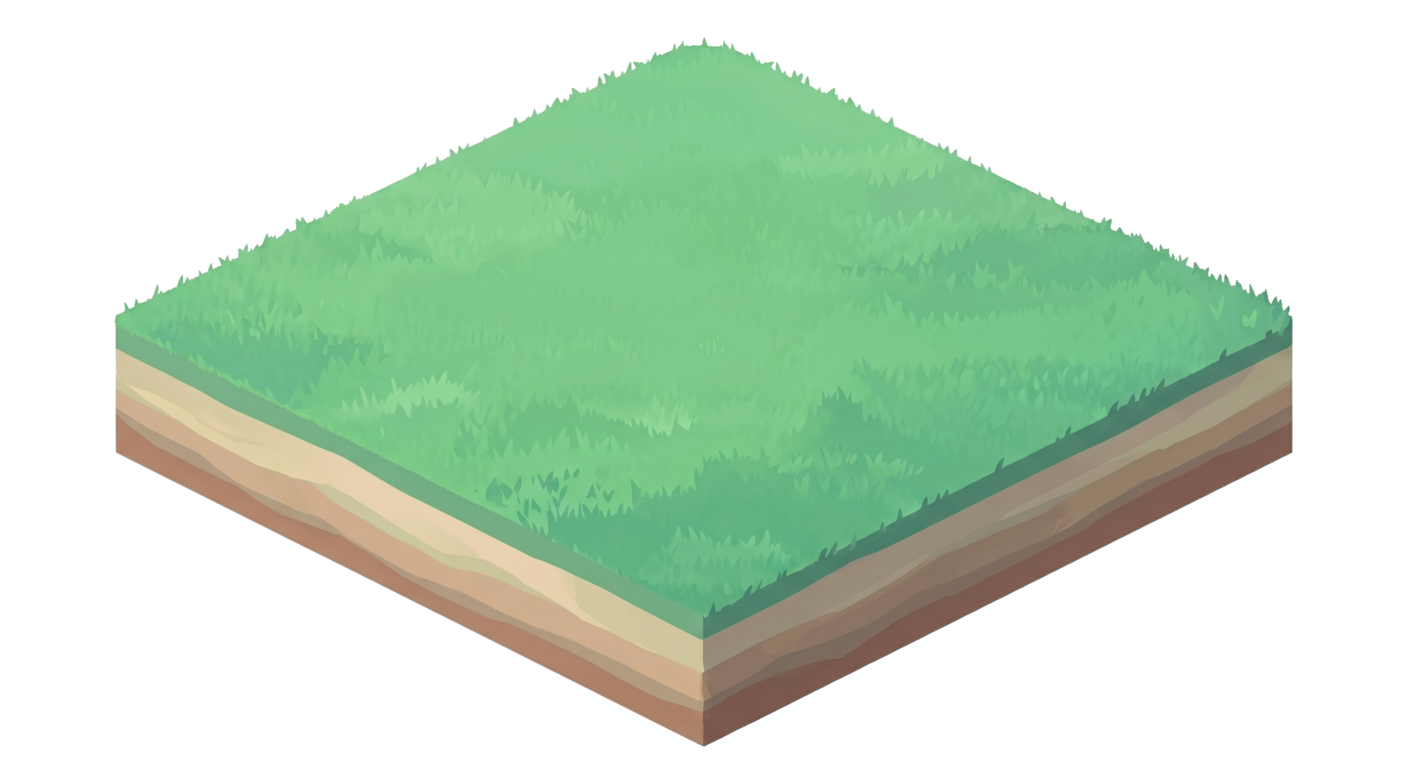
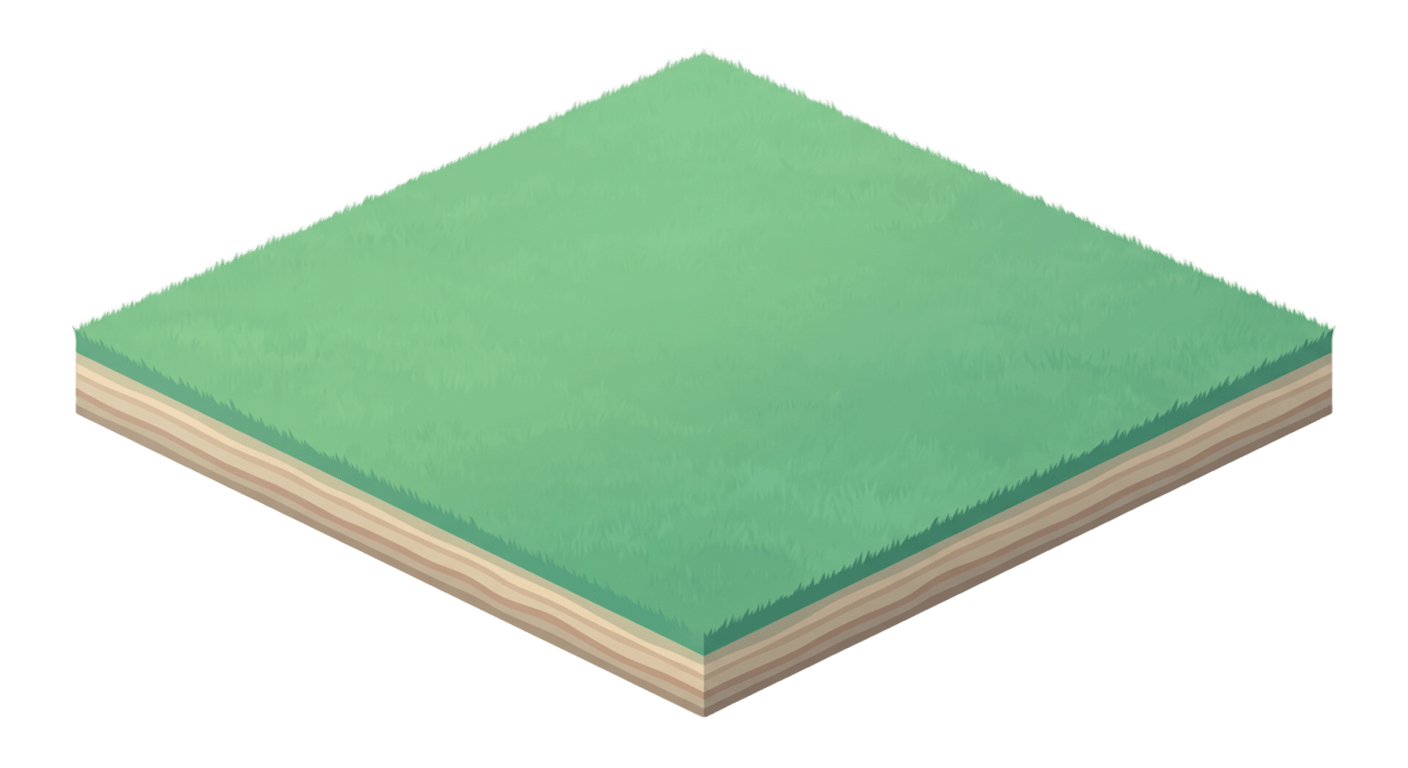
feat: fix the tiles so they don't look overlapping

diff --git a/src/components/game/PixiCanvas.tsx b/src/components/game/PixiCanvas.tsx
@@ -95,6 +95,7 @@ export default function PixiCanvas() {
 
             const assetPromises: Promise<any>[] = [
                 PIXI.Assets.load('/assets/land.png').catch(() => null),
+                PIXI.Assets.load('/assets/grass.png').catch(() => null),
                 PIXI.Assets.load(rabbitSrc).catch(() => null),
                 ...airAnimalSrcs.map(src => PIXI.Assets.load(src).catch(() => null))
             ];
@@ -114,7 +115,7 @@ export default function PixiCanvas() {
                 if (tex) loadedTreeTextures[type] = tex;
             });
 
-            const [bgTexture, rabbitTexture, ...airAnimalTextures] = await Promise.all(assetPromises);
+            const [bgTexture, grassTexture, rabbitTexture, ...airAnimalTextures] = await Promise.all(assetPromises);
             await Promise.all([...healthyPromises, ...dryPromises]);
 
             // Map textures to names
@@ -125,32 +126,67 @@ export default function PixiCanvas() {
 
             if (isDestroyed) return;
 
+            const landLayer = new PIXI.Container();
+            const grassLayer = new PIXI.Container();
+            const treeLayer = new PIXI.Container();
+            treeLayer.sortableChildren = true;
+
             const mainContainer = new PIXI.Container();
+            mainContainer.addChild(landLayer);
+            mainContainer.addChild(grassLayer);
+            mainContainer.addChild(treeLayer);
             app.stage.addChild(mainContainer);
 
-            const gapX = 480;
-            const gapY = 240;
+            // --- 1. GAMBAR TANAH UTAMA (Hanya 1 pulau di tengah) ---
+            if (bgTexture) {
+                const island = new PIXI.Sprite(bgTexture);
+                island.anchor.set(0.5);
+                island.x = 0;
+                island.y = 0;
+                landLayer.addChild(island);
+            }
 
-            const sortedGrid = [...forestGrid].sort((a, b) => (a.grid_x + a.grid_y) - (b.grid_x + b.grid_y));
+            // --- 1.5 GAMBAR RUMPUT DI ATAS TANAH (Rumput berayun) ---
+            if (grassTexture) {
+                const grass = new PIXI.Sprite(grassTexture);
+                grass.anchor.set(0.5);
+                grass.x = 0;
+                grass.y = 0;
+                grassLayer.addChild(grass);
+
+                // Animasi rumput berayun ditiup angin lembut (mengikuti gaya ayunan tanaman)
+                let elapsedGrass = Math.random() * 10;
+                app.ticker.add((ticker) => {
+                    elapsedGrass += ticker.deltaTime * 0.02;
+                    grass.skew.x = Math.sin(elapsedGrass * 2) * 0.035; // Amplitudo diperbesar agar terlihat jelas
+                });
+            }
+
+            // Pemetaan posisi pohon di atas pulau tunggal (0,0) agar menyebar secara rapi ke sudut-sudut pulau
+            const getTreeOffset = (gridX: number, gridY: number) => {
+                if (gridX === 0 && gridY === 0) return { x: 0, y: -10 };       // Tengah (Level 1)
+                if (gridX === 1 && gridY === 0) return { x: 220, y: 70 };     // Depan-Kanan (Level 2)
+                if (gridX === 0 && gridY === 1) return { x: -220, y: 70 };    // Depan-Kiri (Level 3)
+                if (gridX === -1 && gridY === 0) return { x: -180, y: -90 };   // Belakang-Kiri (Level 4)
+                if (gridX === 0 && gridY === -1) return { x: 180, y: -80 };    // Belakang-Kanan (Level 5)
+                return { x: 0, y: 0 };
+            };
+
+            const sortedGrid = [...forestGrid].sort((a, b) => {
+                const offsetA = getTreeOffset(a.grid_x, a.grid_y);
+                const offsetB = getTreeOffset(b.grid_x, b.grid_y);
+                return offsetA.y - offsetB.y; // Urutkan dari belakang ke depan untuk rendering depth order
+            });
 
             sortedGrid.forEach((tile) => {
-                const islandGroup = new PIXI.Container();
-                islandGroup.x = (tile.grid_x - tile.grid_y) * gapX;
-                islandGroup.y = (tile.grid_x + tile.grid_y) * gapY;
+                const offset = getTreeOffset(tile.grid_x, tile.grid_y);
+                const posX = offset.x;
+                const posY = offset.y;
 
                 const unlockLevel = getTileUnlockLevel(tile.grid_x, tile.grid_y);
                 const isLocked = levelNumber < unlockLevel;
 
-                if (bgTexture) {
-                    const island = new PIXI.Sprite(bgTexture);
-                    island.anchor.set(0.5);
-                    if (isLocked) {
-                        island.tint = 0x2b382b; // Darker/locked soil/grass tone
-                        island.alpha = 0.55;   // Dimmed to indicate locked status
-                    }
-                    islandGroup.addChild(island);
-                }
-
+                // --- 2. GAMBAR POHON & HEWAN (Hanya jika tile sudah terbuka) ---
                 if (!isLocked) {
                     // 1. Logika Variasi Pohon
                     let finalTreeType = tile.item_type;
@@ -169,16 +205,23 @@ export default function PixiCanvas() {
                     if (treeTex) {
                         const tree = new PIXI.Sprite(treeTex);
                         tree.anchor.set(0.5, 1);
-                        tree.y = 20;
-                        tree.scale.set(treeData.scale);
-                        islandGroup.addChild(tree);
+                        tree.x = posX;
+                        tree.y = posY + 15; // Turunkan sedikit agar akar menancap pas di tanah
+                        
+                        // Skala dinamis: pohon tengah sedikit lebih kecil agar tidak terpotong di layar, samping disesuaikan
+                        const isCenter = tile.grid_x === 0 && tile.grid_y === 0;
+                        const posScaleFactor = isCenter ? 0.42 : 0.28;
+                        tree.scale.set(treeData.scale * posScaleFactor);
+                        
+                        tree.zIndex = tree.y; // Urutan kedalaman berdasarkan posisi Y
+                        treeLayer.addChild(tree);
 
                         if (!isDry) {
                             let elapsed = Math.random() * 10;
                             app.ticker.add((ticker) => {
                                 elapsed += ticker.deltaTime * 0.02;
                                 tree.skew.x = Math.sin(elapsed * 2) * 0.02;
-                                tree.scale.set(treeData.scale * (1 + Math.sin(elapsed) * 0.01));
+                                tree.scale.set(treeData.scale * posScaleFactor * (1 + Math.sin(elapsed) * 0.01));
                             });
                         } else {
                             let elapsed = Math.random() * 10;
@@ -203,22 +246,23 @@ export default function PixiCanvas() {
                     if (!isDry && finalTreeType !== 'tree_1' && rabbitTexture && Math.random() > 0.3) {
                         const rabbit = new PIXI.Sprite(rabbitTexture);
                         rabbit.anchor.set(0.5, 1);
-                        // Sesuaikan posisi agar tetap di atas pulau land.png
-                        const baseX = (Math.random() > 0.5 ? -80 : 80) + (Math.random() * 30);
-                        const baseY = 60 + (Math.random() * 15);
-                        rabbit.x = baseX;
-                        rabbit.y = baseY;
-                        rabbit.scale.set(0.10);
-                        islandGroup.addChild(rabbit);
+                        // Sesuaikan posisi agar tetap di atas pulau utama (skala offset lebih kecil agar tidak jatuh dari ubin tunggal)
+                        const baseX = (Math.random() > 0.5 ? -35 : 35) + (Math.random() * 10);
+                        const baseY = 25 + (Math.random() * 10);
+                        rabbit.x = posX + baseX;
+                        rabbit.y = posY + baseY;
+                        rabbit.scale.set(0.08);
+                        rabbit.zIndex = rabbit.y; // Urutan kedalaman relatif
+                        treeLayer.addChild(rabbit);
 
                         let t = Math.random() * 10;
                         app.ticker.add((ticker) => {
                             t += ticker.deltaTime * 0.05;
-                            rabbit.x = baseX + Math.cos(t * 0.5) * 15;
-                            rabbit.y = baseY - Math.abs(Math.sin(t * 2.5)) * 25;
+                            rabbit.x = posX + baseX + Math.cos(t * 0.5) * 10;
+                            rabbit.y = posY + baseY - Math.abs(Math.sin(t * 2.5)) * 15;
                             const jumpFactor = Math.abs(Math.sin(t * 2.5));
-                            rabbit.scale.y = 0.10 * (1 - jumpFactor * 0.1);
-                            rabbit.scale.x = 0.10 * (1 + jumpFactor * 0.05);
+                            rabbit.scale.y = 0.08 * (1 - jumpFactor * 0.1);
+                            rabbit.scale.x = 0.08 * (1 + jumpFactor * 0.05);
                         });
                     }
 
@@ -230,31 +274,32 @@ export default function PixiCanvas() {
                             animal.anchor.set(0.5);
 
                             const angle = (aIndex / tileAnimals.length) * Math.PI * 2;
-                            const dist = animalName === 'bird' ? 120 + Math.random() * 60 : 70 + Math.random() * 40;
+                            const dist = animalName === 'bird' ? 80 + Math.random() * 40 : 45 + Math.random() * 25;
                             let baseX = Math.cos(angle) * dist;
-                            let baseY = -60;
+                            let baseY = -40;
 
-                            if (animalName === 'bird') baseY = -220 - Math.random() * 80;
-                            else if (animalName === 'crow') baseY = -140 - Math.random() * 50;
-                            else baseY = -40 - Math.random() * 30;
+                            if (animalName === 'bird') baseY = -140 - Math.random() * 40;
+                            else if (animalName === 'crow') baseY = -90 - Math.random() * 30;
+                            else baseY = -25 - Math.random() * 20;
 
                             const levelNum = parseInt(finalTreeType.split('_').pop() || '1') || 1;
-                            const treeHeightOffset = (levelNum - 1) * 45;
+                            const treeHeightOffset = (levelNum - 1) * 25;
                             baseY -= treeHeightOffset;
 
-                            animal.x = baseX;
-                            animal.y = baseY;
+                            animal.x = posX + baseX;
+                            animal.y = posY + baseY;
 
                             // SKALA DINAMIS BERDASARKAN JENIS HEWAN
-                            const baseScale = (animalName === 'bird' || animalName === 'crow') ? 0.10 : 0.05;
+                            const baseScale = (animalName === 'bird' || animalName === 'crow') ? 0.08 : 0.04;
                             animal.scale.set(baseScale);
-                            islandGroup.addChild(animal);
+                            animal.zIndex = posY + 500; // Terbang di atas pohon
+                            treeLayer.addChild(animal);
 
                             let time = Math.random() * 100;
                             app.ticker.add((ticker) => {
                                 time += ticker.deltaTime * 0.05;
-                                animal.x = baseX + Math.sin(time * 0.7) * 35;
-                                animal.y = baseY + Math.sin(time) * 15;
+                                animal.x = posX + baseX + Math.sin(time * 0.7) * 20;
+                                animal.y = posY + baseY + Math.sin(time) * 10;
                                 animal.rotation = Math.sin(time * 0.7) * 0.1;
                                 const wingSpeed = animalName === 'bee' ? 12 : animalName === 'butterfly' ? 6 : 8;
                                 const flap = 1 + Math.sin(time * wingSpeed) * 0.15;
@@ -263,17 +308,10 @@ export default function PixiCanvas() {
                         }
                     });
                 }
-
-                mainContainer.addChild(islandGroup);
             });
 
-
-            // Skala dinamis bergantung jumlah grid (Diperbesar/Zoom In agar terlihat lebih detail & premium)
-            const coordList = forestGrid.map(f => Math.max(Math.abs(f.grid_x), Math.abs(f.grid_y)));
-            const maxCoordVal = coordList.length > 0 ? Math.max(...coordList) : 0;
-            const maxCoords = maxCoordVal + 1;
-            const globalScale = maxCoords >= 3 ? 0.16 : maxCoords >= 2 ? 0.24 : 0.42;
-
+            // Skala tetap optimal untuk 1 pulau tunggal agar terlihat premium & besar
+            const globalScale = 0.65;
             mainContainer.scale.set(globalScale);
 
             // Centering function that remains responsive to window resizing